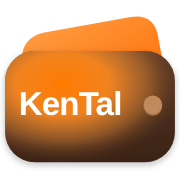
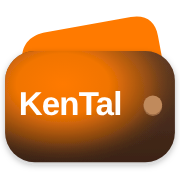
Ikon KenTal: oranye sesuai warna utama aplikasi (#FF7A00)
Claude-Session: https://claude.ai/code/session_015Ebc1KBKGqm5xwmaobh5dd

diff --git a/index.html b/index.html
@@ -5,12 +5,12 @@
   <meta name="viewport" content="width=device-width, initial-scale=1, viewport-fit=cover">
   <meta name="theme-color" content="#121212">
   <meta name="robots" content="noindex, nofollow">
-  <link rel="icon" type="image/png" sizes="32x32" href="img/kental-32.png?v=5">
-  <link rel="icon" type="image/png" sizes="48x48" href="img/kental-48.png?v=5">
-  <link rel="icon" type="image/png" sizes="192x192" href="img/kental-192.png?v=5">
-  <link rel="icon" type="image/svg+xml" href="img/icon.svg?v=5">
-  <link rel="apple-touch-icon" href="img/kental-180.png?v=5">
-  <link rel="manifest" href="manifest.webmanifest?v=5">
+  <link rel="icon" type="image/png" sizes="32x32" href="img/kental-32.png?v=6">
+  <link rel="icon" type="image/png" sizes="48x48" href="img/kental-48.png?v=6">
+  <link rel="icon" type="image/png" sizes="192x192" href="img/kental-192.png?v=6">
+  <link rel="icon" type="image/svg+xml" href="img/icon.svg?v=6">
+  <link rel="apple-touch-icon" href="img/kental-180.png?v=6">
+  <link rel="manifest" href="manifest.webmanifest?v=6">
   <title>Keuangan Digital</title>
   <link rel="preconnect" href="https://fonts.googleapis.com">
   <link rel="preconnect" href="https://fonts.gstatic.com" crossorigin>
@@ -36,7 +36,7 @@
     <!-- ═════════ SIDEBAR (desktop/tablet) ═════════ -->
     <aside class="sidebar" id="sidebar" aria-label="Navigasi utama">
       <div class="brand">
-        <img class="brand-logo" src="img/icon.svg?v=5" alt="KenTal">
+        <img class="brand-logo" src="img/icon.svg?v=6" alt="KenTal">
         <div class="brand-text">
           <strong>Keuangan Digital</strong>
           <small>PERSONAL FINANCE</small>
@@ -143,7 +143,7 @@
   <!-- LAYAR MASUK — menutupi aplikasi sampai login berhasil -->
   <div class="auth-screen" id="authScreen" hidden>
     <div class="auth-card" role="dialog" aria-modal="true" aria-labelledby="authTitle">
-      <img class="brand-logo" src="img/icon.svg?v=5" alt="KenTal">
+      <img class="brand-logo" src="img/icon.svg?v=6" alt="KenTal">
       <h1 id="authTitle">Keuangan Digital</h1>
       <p id="authSub">Masuk untuk melanjutkan</p>
       <div class="auth-msg" id="authMsg" hidden></div>
